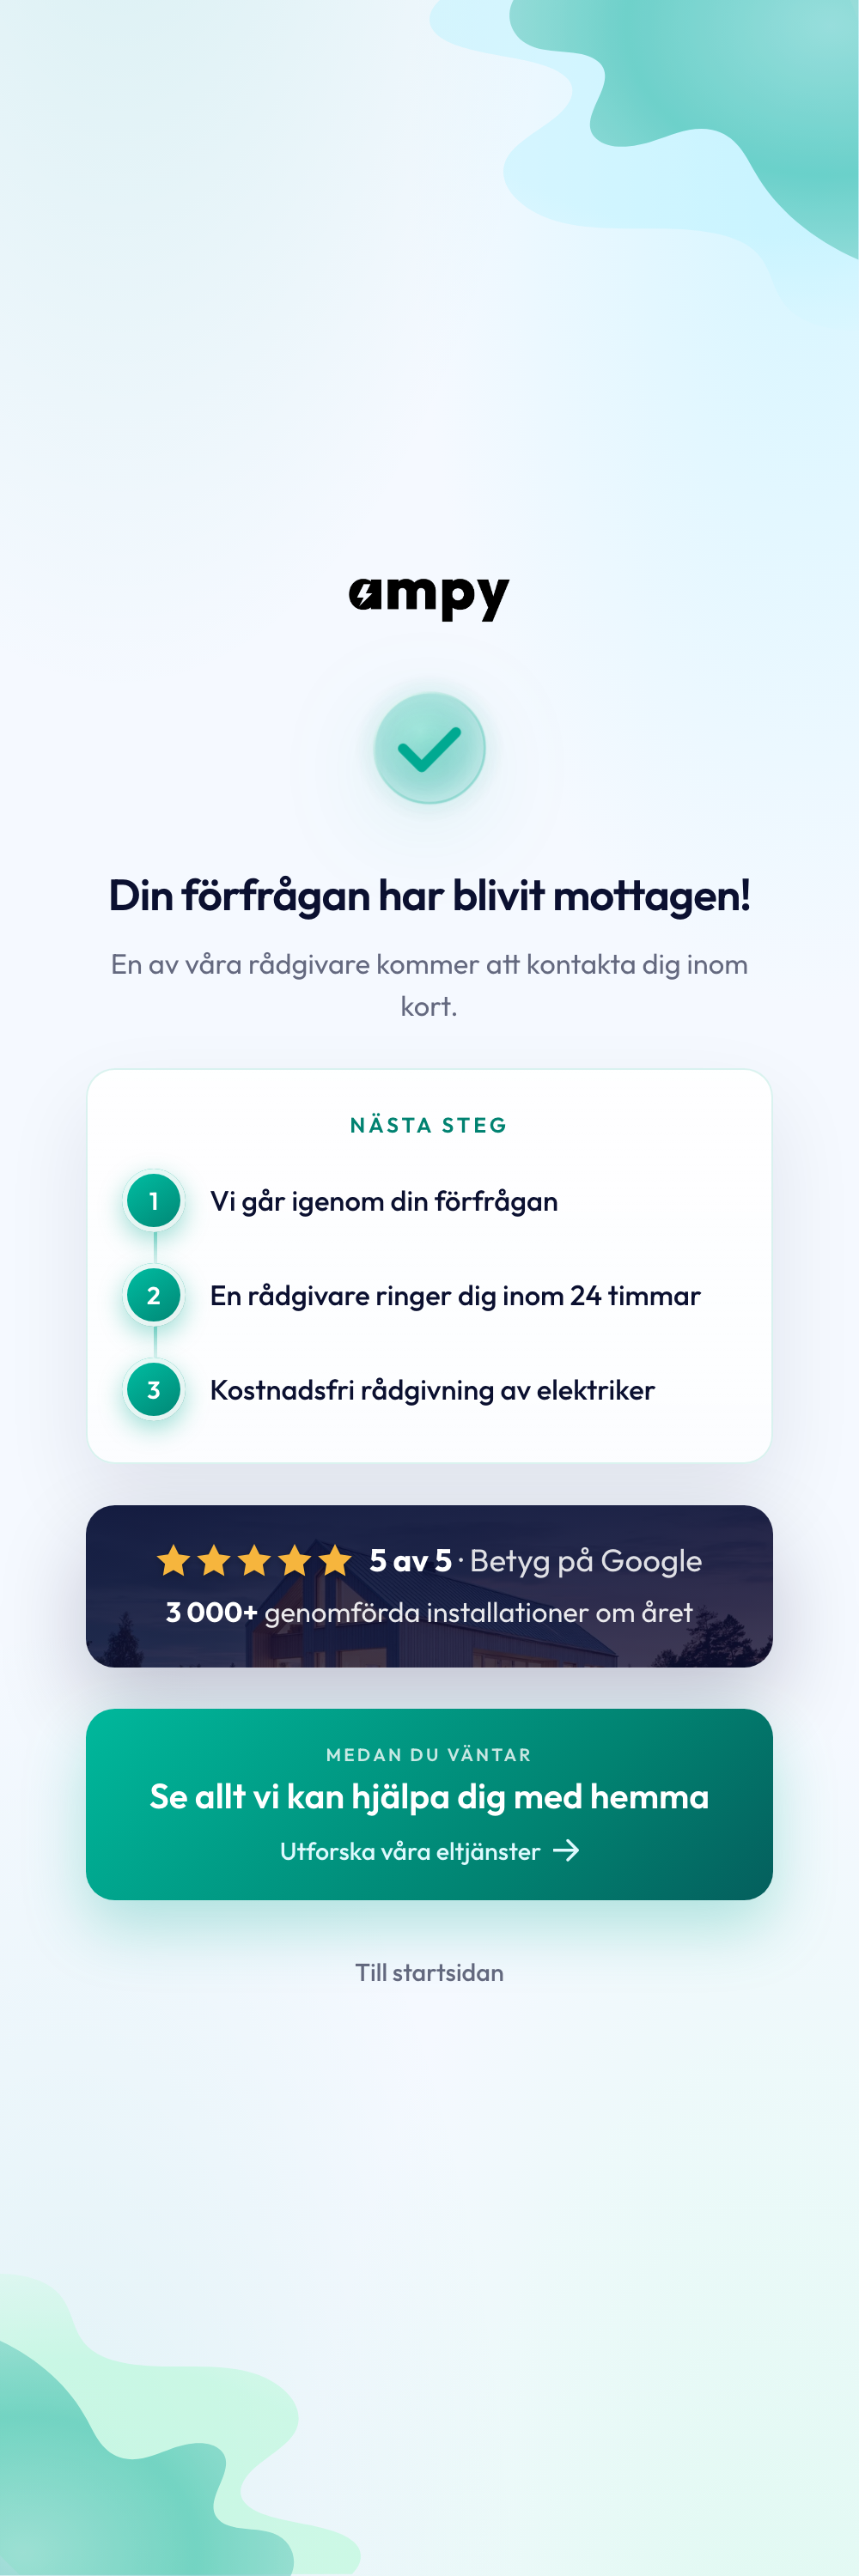
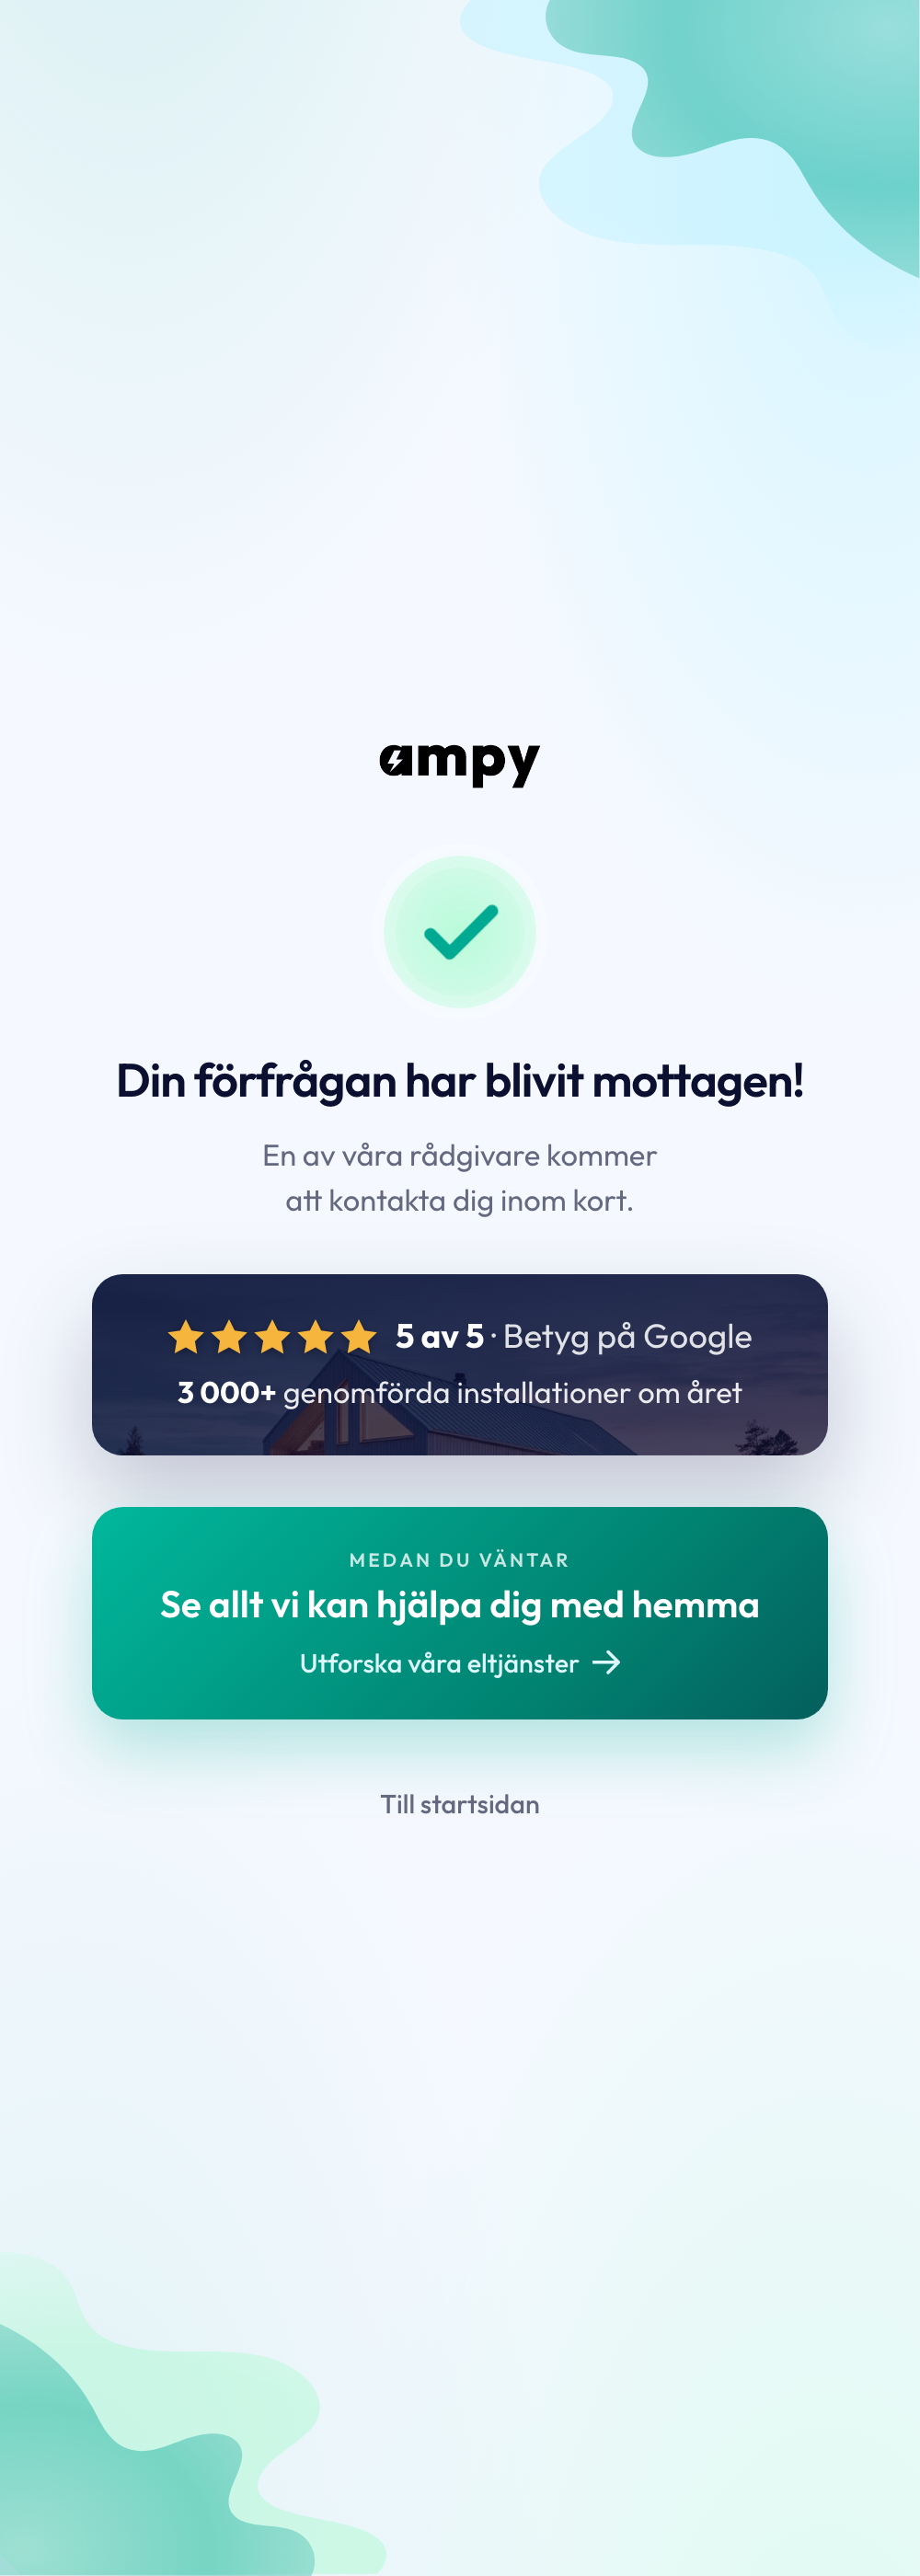
v1: remove 'Nästa steg' ladder, restore Ampy's own check, full UX polish
Per owner: dropped the expectation-ladder entirely (heading + paragraph
only). Restored the current ampy.se check (pale-mint disc + teal tick,
thank-you-icon.svg) with a tasteful draw-in + soft mint halo instead of
the custom glassy one. Kept the loved 5-av-5 proof card and centred
'Medan du väntar' (→ ampy.se/elservice). Rebalanced the shorter
composition: confirmation → proof → action, tighter type/spacing, lifted
the dusk-house photo for texture while holding AA legibility. Verified
desktop+mobile via true render + DOM probe (no overflow, no ladder,
animations wired). Refreshed chooser thumbnails.

diff --git a/v1/styles.css b/v1/styles.css
@@ -1,28 +1,27 @@
 /* =========================================================================
-   Ampy tack-sida — Direction v1 "Ljus & varm" (light aurora)  ·  v2
-   Premium spacing/type pass. Sky-mist + soft teal-aurora. Accents = TEAL.
+   Ampy tack-sida — Direction v1 "Ljus & varm" (light aurora)  ·  v3
+   Ladder removed. Original Ampy check restored (pale-mint disc + teal tick),
+   tastefully animated. Full spacing/UX polish for the shorter composition.
    Palette bound to ../shared/tokens.css.
    ========================================================================= */
 
 :root{
   --shadow-primary: rgba(9,11,50,.10);
-  --ink: #0b1030;                    /* headings ink on light */
-  --ink-soft: rgba(11,16,48,.62);    /* secondary text, AA on sky-mist */
-  --ink-faint: rgba(11,16,48,.46);
+  --ink: #0b1030;
+  --ink-soft: rgba(11,16,48,.62);
   --teal: #00a991;
-  --teal-deep: #018271;              /* AA teal text on light */
+  --teal-deep: #018271;
   --gold: #f6b53d;
   --ease: cubic-bezier(.16,.84,.44,1);
   --ease-soft: cubic-bezier(.33,1,.68,1);
 }
 
 *,*::before,*::after{ box-sizing:border-box; }
-html{ font-size:62.5%; }             /* 1rem = 10px — ap* rem tokens */
+html{ font-size:62.5%; }
 
 body{
   margin:0;
-  min-height:100vh;
-  min-height:100dvh;
+  min-height:100vh; min-height:100dvh;
   font-family:"Outfit", system-ui, -apple-system, "Segoe UI", sans-serif;
   color:var(--ink);
   background:
@@ -37,7 +36,7 @@ body{
 }
 
 /* ---- decorative aurora corner art -------------------------------------- */
-.aurora{ position:fixed; z-index:0; pointer-events:none; user-select:none; opacity:.85; }
+.aurora{ position:fixed; z-index:0; pointer-events:none; user-select:none; opacity:.82; }
 .aurora--top{ top:0; right:0; width:clamp(22rem, 32vw, 42rem); height:auto; }
 .aurora--bottom{ bottom:0; left:0; width:clamp(16rem, 24vw, 30rem); height:auto; }
 
@@ -50,53 +49,53 @@ body{
 }
 .stack{
   width:100%;
-  max-width:50rem;
+  max-width:48rem;
   display:flex; flex-direction:column; align-items:center;
   text-align:center;
-  gap:clamp(2.4rem,3.4vw,3.4rem);
+  gap:clamp(2.8rem,3.6vw,3.6rem);
 }
 
-.logo{
-  width:auto;
-  height:clamp(3rem,3.6vw,3.6rem);
+.logo{ width:auto; height:clamp(2.8rem,3.4vw,3.4rem); }
+
+/* confirmation group — logo/check/heading read as one calm unit ---------- */
+.intro{
+  display:flex; flex-direction:column; align-items:center;
+  gap:clamp(1.8rem,2.6vw,2.6rem);
 }
 
-/* ---- living teal check -------------------------------------------------- */
+/* ---- the current Ampy check, animated ---------------------------------- */
 .check{
   position:relative;
-  width:clamp(8.4rem,11vw,10.4rem);
-  height:clamp(8.4rem,11vw,10.4rem);
+  width:clamp(9.6rem,12vw,11.6rem);
+  height:clamp(9.6rem,12vw,11.6rem);
   display:grid; place-items:center;
-  margin:clamp(.4rem,1vw,1rem) 0;
 }
-.check__svg{ position:relative; z-index:2; width:100%; height:100%; overflow:visible;
-  filter:drop-shadow(0 1.4rem 2.8rem rgba(0,169,145,.28)); }
-/* soft breathing halo rings behind the disc */
+.check__svg{ position:relative; z-index:2; width:100%; height:100%; overflow:visible; }
+/* soft mint breathing halo behind the disc — subtle life, not a light show */
 .check__halo{
-  position:absolute; inset:0; z-index:1; border-radius:50%;
-  background:radial-gradient(circle, rgba(0,169,145,.34) 0%, rgba(0,169,145,0) 68%);
-  animation:halo 3.6s var(--ease-soft) infinite;
+  position:absolute; inset:6%; z-index:1; border-radius:50%;
+  background:radial-gradient(circle, rgba(85,255,154,.30) 0%, rgba(85,255,154,0) 72%);
+  animation:halo 4s var(--ease-soft) infinite;
 }
-.check__halo--2{ animation-delay:1.8s; }
-.check__disc{ transform-origin:center; animation:disc-in 620ms var(--ease) both; }
-.check__rim{ transform-origin:center; animation:disc-in 620ms var(--ease) 40ms both; }
+.check__disc{ transform-origin:center; animation:disc-in 640ms var(--ease) both; }
 .check__tick{
-  stroke-dasharray:96; stroke-dashoffset:96;
-  animation:tick 520ms var(--ease) 340ms both;
+  stroke-dasharray:120; stroke-dashoffset:120;
+  animation:tick 560ms var(--ease) 300ms both;
 }
-@keyframes disc-in{ 0%{ transform:scale(.6); opacity:0; } 62%{ transform:scale(1.05); } 100%{ transform:scale(1); opacity:1; } }
+@keyframes disc-in{ 0%{ transform:scale(.62); opacity:0; } 62%{ transform:scale(1.05); } 100%{ transform:scale(1); opacity:1; } }
 @keyframes tick{ to{ stroke-dashoffset:0; } }
-@keyframes halo{ 0%{ transform:scale(.72); opacity:0; } 32%{ opacity:.9; } 100%{ transform:scale(1.5); opacity:0; } }
+@keyframes halo{ 0%{ transform:scale(.8); opacity:0; } 34%{ opacity:.85; } 100%{ transform:scale(1.4); opacity:0; } }
 
 /* ---- hero --------------------------------------------------------------- */
 .hero{ display:flex; flex-direction:column; gap:var(--apspace-s); }
 .hero__title{
   margin:0;
-  font-size:var(--aptext-2xl);      /* smaller per owner — was 4xl */
+  font-size:var(--aptext-2xl);
   line-height:1.12;
   font-weight:600;
   letter-spacing:-.02em;
   color:var(--ink);
+  text-wrap:balance;
 }
 .hero__sub{
   margin:0 auto;
@@ -105,65 +104,8 @@ body{
   line-height:1.5;
   font-weight:400;
   color:var(--ink-soft);
+  text-wrap:balance;
 }
-
-/* ---- signature block: expectation ladder (clean timeline) --------------- */
-.ladder{
-  width:100%;
-  background:linear-gradient(180deg, rgba(255,255,255,.92), rgba(255,255,255,.72));
-  border:1px solid rgba(0,169,145,.14);
-  border-radius:var(--apradius-l);
-  box-shadow:0 2.2rem 5rem rgba(9,11,50,.09);
-  backdrop-filter:blur(10px); -webkit-backdrop-filter:blur(10px);
-  padding:clamp(2.4rem,3.4vw,3.2rem) clamp(2.4rem,3.4vw,3.4rem);
-}
-.ladder__eyebrow{
-  margin:0 0 clamp(1.8rem,2.6vw,2.4rem);
-  font-size:var(--aptext-s);
-  font-weight:600;
-  text-transform:uppercase;
-  letter-spacing:.16em;
-  color:var(--teal-deep);
-  text-align:center;
-}
-.ladder__list{
-  list-style:none; margin:0; padding:0;
-  display:flex; flex-direction:column;
-  gap:clamp(1.8rem,2.6vw,2.4rem);
-  text-align:left;
-}
-.step{
-  position:relative;
-  display:flex; align-items:center;
-  gap:var(--apspace-s);
-  animation:step-in 500ms var(--ease) both;
-  animation-delay:calc(560ms + var(--i) * 130ms);
-}
-/* continuous hairline connector behind the nodes */
-.step:not(:last-child)::after{
-  content:""; position:absolute;
-  left:1.85rem; top:3.7rem;
-  width:2px; height:calc(100% + clamp(1.8rem,2.6vw,2.4rem) - 3.7rem);
-  background:linear-gradient(180deg, rgba(0,169,145,.42), rgba(0,169,145,.12));
-}
-.step__node{
-  position:relative; z-index:1;
-  flex:0 0 auto;
-  width:3.7rem; height:3.7rem;
-  border-radius:50%;
-  display:grid; place-items:center;
-  background:linear-gradient(145deg, #00c2a6 0%, #018271 100%);
-  box-shadow:0 .5rem 1.4rem rgba(0,169,145,.36), inset 0 0 0 3px rgba(255,255,255,.9);
-}
-.step__node span{
-  font-size:var(--aptext-sm); font-weight:600; color:#fff; line-height:1;
-}
-.step__text{
-  font-size:var(--aptext-m);
-  line-height:1.35; font-weight:500; color:var(--ink);
-}
-
-@keyframes step-in{ from{ opacity:0; transform:translateY(.8rem); } to{ opacity:1; transform:none; } }
 
 /* ---- proof card — 1:1 with owner ref (dark, gold, centred) -------------- */
 .proof{
@@ -176,14 +118,14 @@ body{
   position:relative;
   display:flex; flex-direction:column; align-items:center;
   gap:clamp(1rem,1.6vw,1.4rem);
-  padding:clamp(2.2rem,3.2vw,3rem) var(--apspace-l);
+  padding:clamp(2.4rem,3.4vw,3.2rem) var(--apspace-l);
   text-align:center;
   color:#fff;
   background:
-    linear-gradient(180deg, rgba(9,11,50,.86) 0%, rgba(9,11,50,.76) 100%),
+    linear-gradient(180deg, rgba(9,11,50,.82) 0%, rgba(9,11,50,.72) 100%),
     url("../shared/assets/Modernt-hus-ampy-fixat-efter-stromavbrott.webp");
   background-size:cover;
-  background-position:center 58%;
+  background-position:center 50%;
 }
 .proof__rating{
   margin:0;
@@ -191,11 +133,8 @@ body{
   flex-wrap:wrap; gap:.4rem 1rem;
 }
 .stars{ display:inline-flex; gap:.35rem; }
-.stars svg{ width:2rem; height:2rem; fill:var(--gold);
-  filter:drop-shadow(0 1px 2px rgba(0,0,0,.3)); }
-.proof__ratingtext{
-  font-size:var(--aptext-mm); font-weight:400; color:rgba(255,255,255,.86); line-height:1;
-}
+.stars svg{ width:2rem; height:2rem; fill:var(--gold); filter:drop-shadow(0 1px 2px rgba(0,0,0,.3)); }
+.proof__ratingtext{ font-size:var(--aptext-mm); font-weight:400; color:rgba(255,255,255,.86); line-height:1; }
 .proof__ratingtext strong{ font-weight:700; color:#fff; }
 .proof__count{
   margin:0;
@@ -210,7 +149,7 @@ body{
   display:flex; flex-direction:column; align-items:center;
   gap:.5rem;
   text-decoration:none; text-align:center;
-  padding:clamp(2rem,3vw,2.6rem) var(--apspace-l);
+  padding:clamp(2.2rem,3.2vw,2.8rem) var(--apspace-l);
   border-radius:var(--apradius-l);
   color:#fff;
   background:linear-gradient(135deg, #00b89c 0%, #018271 66%, #0b1030 175%);
@@ -222,9 +161,7 @@ body{
   font-size:var(--aptext-xs); font-weight:600;
   text-transform:uppercase; letter-spacing:.15em; color:rgba(255,255,255,.78);
 }
-.wait__line{
-  font-size:var(--aptext-ml); font-weight:600; line-height:1.25; color:#fff;
-}
+.wait__line{ font-size:var(--aptext-ml); font-weight:600; line-height:1.25; color:#fff; }
 .wait__link{
   display:inline-flex; align-items:center; gap:.7rem;
   margin-top:.5rem;
@@ -248,20 +185,18 @@ a:focus-visible{ outline:3px solid var(--teal); outline-offset:3px; border-radiu
 
 /* ---- mobile ------------------------------------------------------------- */
 @media (max-width:520px){
-  .page{ padding:clamp(3.2rem,8vw,4.8rem) var(--apspace-m); }
-  .stack{ max-width:40rem; gap:2.4rem; }
+  .page{ padding:clamp(3.6rem,9vw,5.2rem) var(--apspace-m); }
+  .stack{ max-width:40rem; gap:2.8rem; }
   .hero__title{ font-size:var(--aptext-xl); }
-  .aurora--top{ width:50vw; opacity:.8; }
-  .aurora--bottom{ width:42vw; opacity:.75; }
-  .ladder{ padding:2.4rem 2rem; }
+  .aurora--top{ width:50vw; opacity:.78; }
+  .aurora--bottom{ width:42vw; opacity:.72; }
   .proof__count{ font-size:var(--aptext-m); }
 }
 
 /* ---- reduced motion ----------------------------------------------------- */
 @media (prefers-reduced-motion: reduce){
-  .check__disc,.check__rim,.check__tick,.step,.check__halo{ animation:none !important; }
+  .check__disc,.check__tick,.check__halo{ animation:none !important; }
   .check__tick{ stroke-dashoffset:0; }
   .check__halo{ opacity:.5; transform:scale(1.1); }
-  .step{ opacity:1; transform:none; }
   .wait,.wait__arrow,.ghost{ transition:none; }
 }

diff --git a/v1/index.html b/v1/index.html
@@ -21,51 +21,21 @@
 
       <img class="logo" src="../shared/assets/Ampy-logo.png" alt="Ampy" width="701" height="201">
 
-      <!-- living teal check: glassy disc + halo pulse + tick draw -->
-      <div class="check" aria-hidden="true">
-        <span class="check__halo"></span>
-        <span class="check__halo check__halo--2"></span>
-        <svg class="check__svg" width="120" height="120" viewBox="0 0 120 120" fill="none" xmlns="http://www.w3.org/2000/svg">
-          <circle class="check__disc" cx="60" cy="60" r="46" fill="url(#glass)"/>
-          <circle class="check__rim" cx="60" cy="60" r="46" fill="none" stroke="url(#rim)" stroke-width="2"/>
-          <path class="check__tick" d="M82 47 L53.5 76 L38 60.5" fill="none" stroke="#00A991" stroke-width="8.5" stroke-linecap="round" stroke-linejoin="round"/>
-          <defs>
-            <radialGradient id="glass" cx="0.42" cy="0.35" r="0.75">
-              <stop offset="0" stop-color="#7fe8cf" stop-opacity="0.42"/>
-              <stop offset="0.6" stop-color="#00a991" stop-opacity="0.22"/>
-              <stop offset="1" stop-color="#00a991" stop-opacity="0.10"/>
-            </radialGradient>
-            <linearGradient id="rim" x1="18" y1="16" x2="104" y2="108" gradientUnits="userSpaceOnUse">
-              <stop offset="0" stop-color="#ffffff" stop-opacity="0.9"/>
-              <stop offset="1" stop-color="#00a991" stop-opacity="0.25"/>
-            </linearGradient>
-          </defs>
-        </svg>
+      <div class="intro">
+        <!-- the current Ampy check (pale-mint disc + teal tick), animated: tick draws in -->
+        <div class="check" aria-hidden="true">
+          <span class="check__halo"></span>
+          <svg class="check__svg" width="120" height="120" viewBox="0 0 174 174" fill="none" xmlns="http://www.w3.org/2000/svg">
+            <rect class="check__disc" x="12" y="12" width="150" height="150" rx="75" fill="#55FF9A" fill-opacity="0.2" stroke="#ffffff" stroke-opacity="0.18" stroke-width="24"/>
+            <path class="check__tick" d="M118.582 66.3379L76.862 108.207L57.8984 89.1754" stroke="#00A991" stroke-width="12" stroke-linecap="round" stroke-linejoin="round"/>
+          </svg>
+        </div>
+
+        <header class="hero">
+          <h1 class="hero__title">Din förfrågan har blivit mottagen!</h1>
+          <p class="hero__sub">En av våra rådgivare kommer att kontakta dig inom kort.</p>
+        </header>
       </div>
-
-      <header class="hero">
-        <h1 class="hero__title">Din förfrågan har blivit mottagen!</h1>
-        <p class="hero__sub">En av våra rådgivare kommer att kontakta dig inom kort.</p>
-      </header>
-
-      <!-- signature block: expectation ladder -->
-      <section class="ladder" aria-labelledby="ladder-title">
-        <p class="ladder__eyebrow" id="ladder-title">Nästa steg</p>
-        <ol class="ladder__list">
-          <li class="step" style="--i:0">
-            <span class="step__node" aria-hidden="true"><span>1</span></span>
-            <span class="step__text">Vi går igenom din förfrågan</span>
-          </li>
-          <li class="step" style="--i:1">
-            <span class="step__node" aria-hidden="true"><span>2</span></span>
-            <span class="step__text">En rådgivare ringer dig inom 24 timmar</span>
-          </li>
-          <li class="step" style="--i:2">
-            <span class="step__node" aria-hidden="true"><span>3</span></span>
-            <span class="step__text">Kostnadsfri rådgivning av elektriker</span>
-          </li>
-        </ol>
-      </section>
 
       <!-- trust card — 1:1 with the owner reference (dark, gold stars, centred) -->
       <section class="proof" aria-label="Omdöme och erfarenhet">

diff --git a/index.html b/index.html
@@ -77,7 +77,7 @@
         <div class="card__body">
           <span class="card__eyebrow">Riktning 1</span>
           <h2 class="card__name">Ljus &amp; varm</h2>
-          <p class="card__desc">Ljus sky-mist med mjuk teal-aurora. Vald riktning, nu putsad: levande glas-check, "Nästa steg"-tidslinje, mörkt 5-av-5-proofkort (1:1) och stramare typografi/spacing.</p>
+          <p class="card__desc">Ljus sky-mist med mjuk teal-aurora. Vald riktning, slutputsad: Ampys egen animerade check, ren rubrik + paragraf, mörkt 5-av-5-proofkort (1:1) och centrerad "Medan du väntar". Stram typografi och spacing genomgående.</p>
           <span class="rec">★ Vald riktning</span>
           <div class="card__links">
             <a class="btn btn--primary" href="v1/index.html">Öppna helskärm →</a>